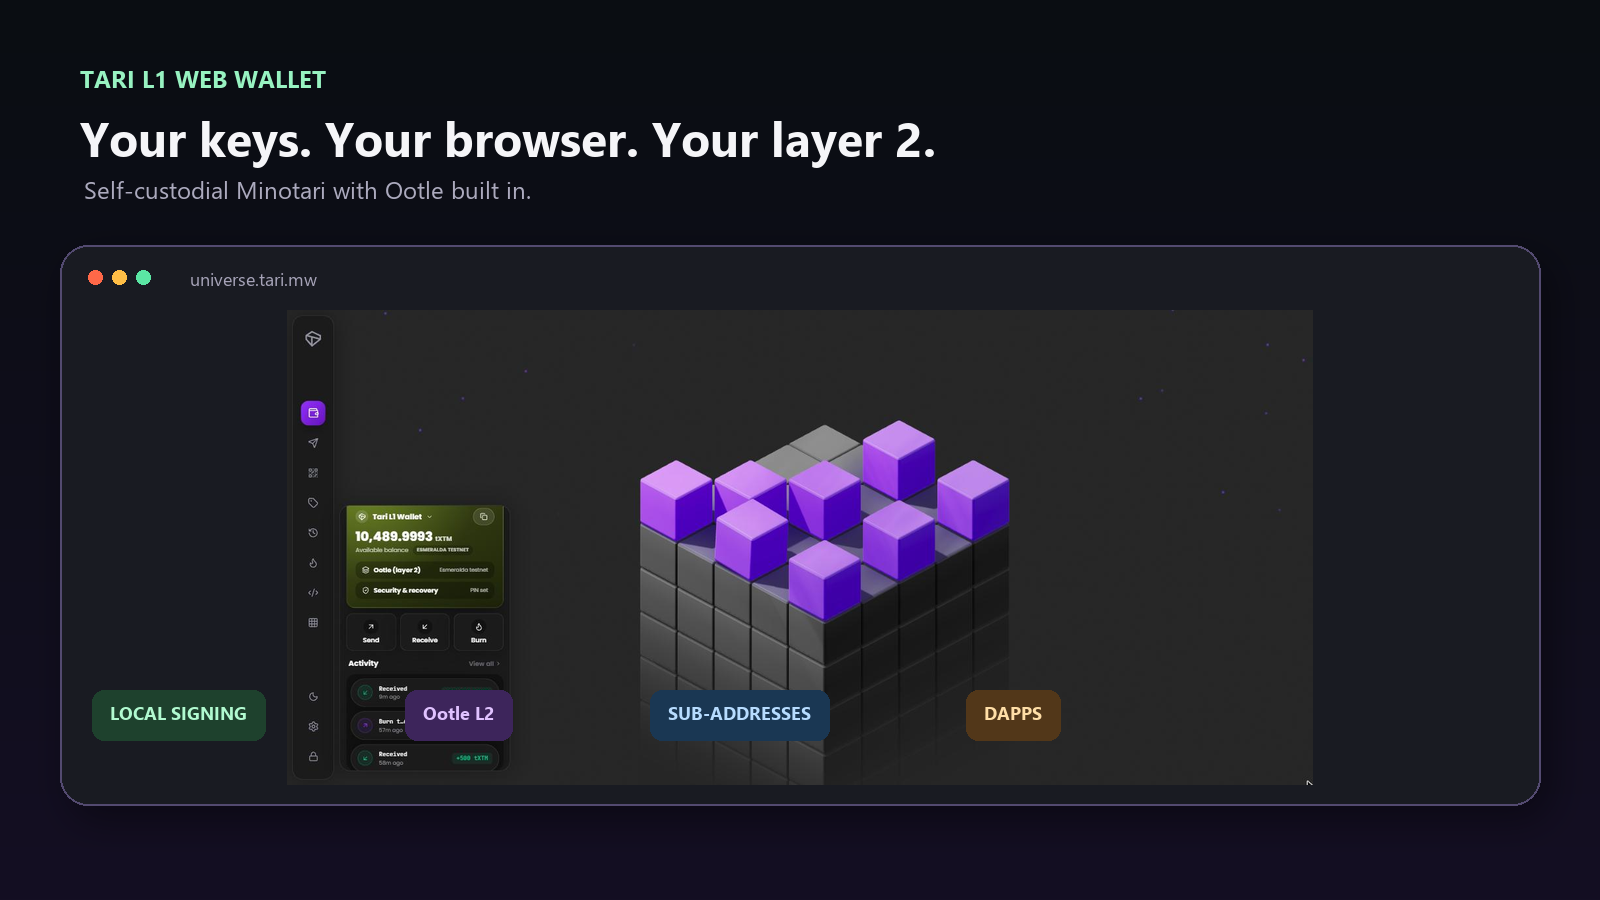
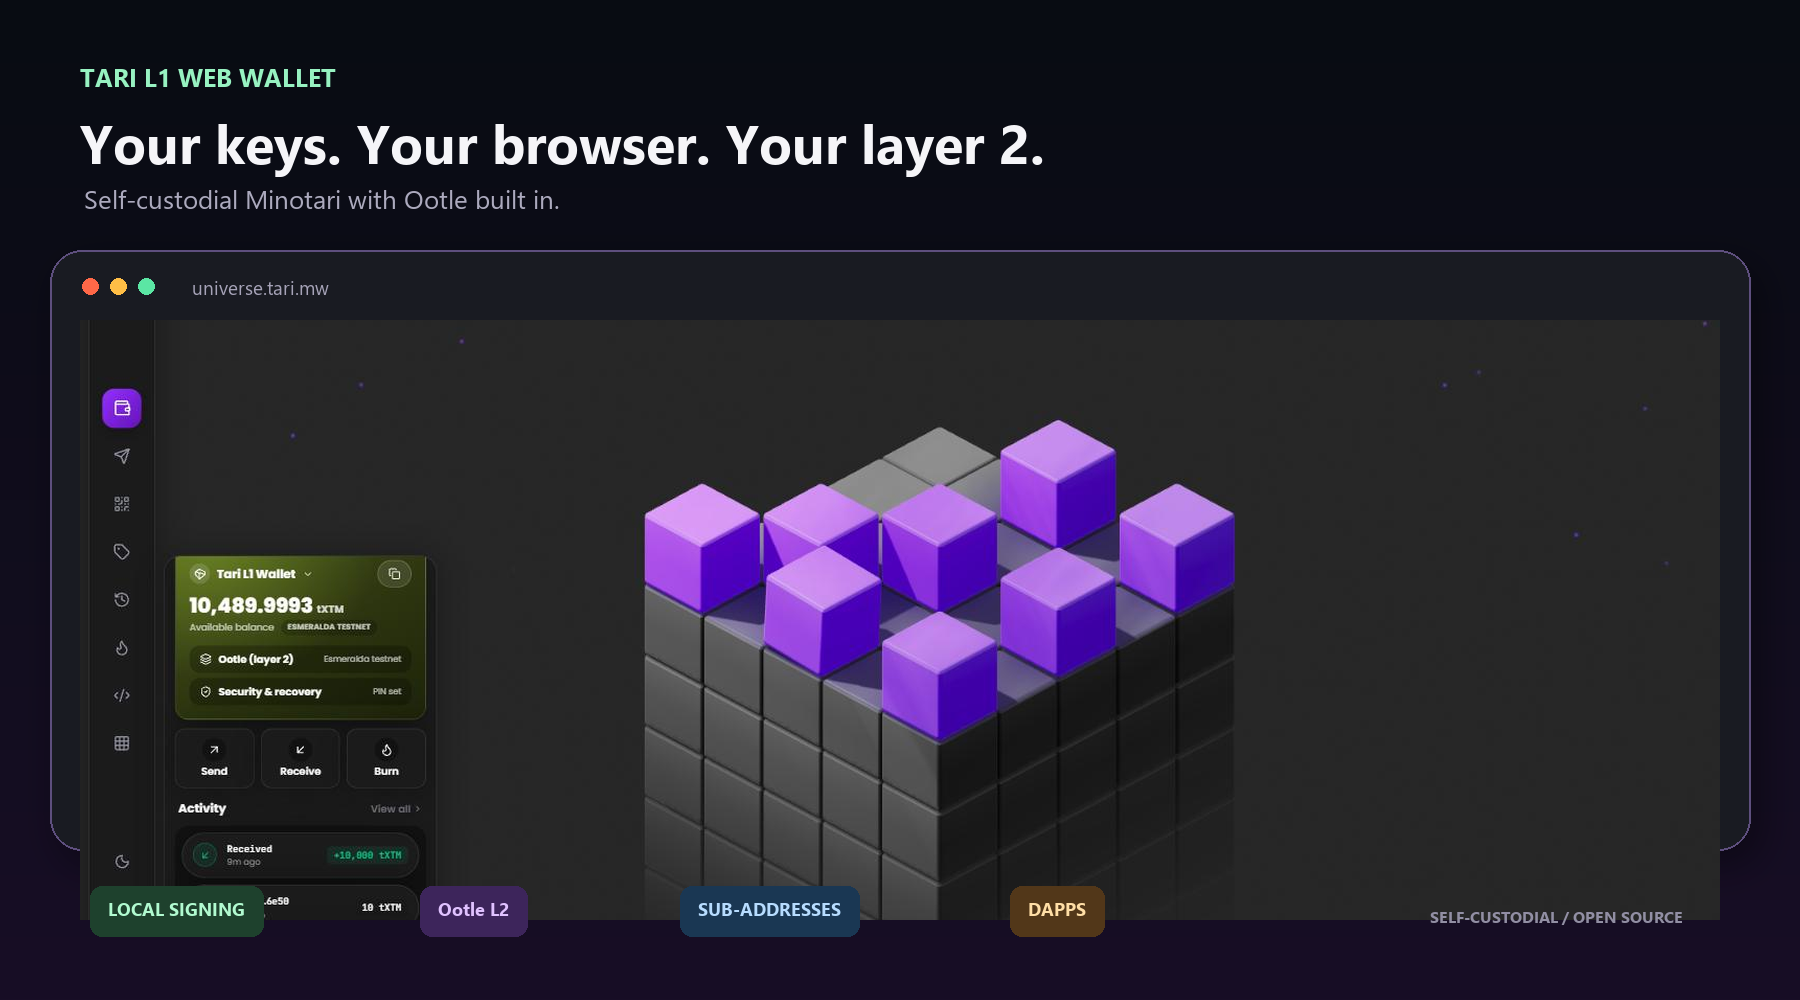
README: regenerate product visuals

diff --git a/scripts/make-readme-assets.py b/scripts/make-readme-assets.py
@@ -1,5 +1,5 @@
 from pathlib import Path
-from PIL import Image, ImageDraw, ImageFont, ImageFilter
+from PIL import Image, ImageDraw, ImageFont, ImageFilter, ImageOps
 
 ROOT = Path(__file__).resolve().parents[1]
 OUT = ROOT / "docs" / "screenshots"
@@ -55,25 +55,27 @@ def label(draw, xy, text, color, fill):
 
 
 def make_hero():
-    w, h = 1600, 900
-    image = gradient((w, h), (10, 13, 18), (20, 15, 35)).convert("RGBA")
+    w, h = 1800, 1000
+    image = gradient((w, h), (8, 12, 18), (24, 14, 38)).convert("RGBA")
     draw = ImageDraw.Draw(image)
-    draw.text((80, 62), "TARI L1 WEB WALLET", font=font(24, True), fill=(151, 242, 193))
-    draw.text((80, 105), "Your keys. Your browser. Your layer 2.", font=font(48, True), fill=(245, 245, 248))
-    draw.text((84, 173), "Self-custodial Minotari with Ootle built in.", font=font(24), fill=(172, 170, 190))
-    shadow(image, (60, 245, 1540, 805), 28)
-    rounded(image, (60, 245, 1540, 805), 28, fill=(25, 27, 34, 255), outline=(83, 74, 112, 255), width=2)
+    draw.text((80, 60), "TARI L1 WEB WALLET", font=font(25, True), fill=(151, 242, 193))
+    draw.text((80, 105), "Your keys. Your browser. Your layer 2.", font=font(54, True), fill=(245, 245, 248))
+    draw.text((84, 180), "Self-custodial Minotari with Ootle built in.", font=font(26), fill=(172, 170, 190))
+    shadow(image, (50, 250, 1750, 850), 32)
+    rounded(image, (50, 250, 1750, 850), 32, fill=(25, 27, 34, 255), outline=(94, 79, 126, 255), width=2)
     draw = ImageDraw.Draw(image)
-    draw.ellipse((88, 270, 102, 284), fill=(255, 104, 72))
-    draw.ellipse((112, 270, 126, 284), fill=(255, 190, 70))
-    draw.ellipse((136, 270, 150, 284), fill=(91, 230, 164))
-    draw.text((190, 266), "universe.tari.mw", font=font(18), fill=(166, 163, 184))
-    shot = fit(Image.open(OUT / "dashboard.jpg"), (1370, 475))
-    image.alpha_composite(shot, ((1600 - shot.width) // 2, 310))
-    label(draw, (92, 690), "LOCAL SIGNING", (177, 250, 208), (30, 65, 45, 255))
-    label(draw, (405, 690), "Ootle L2", (224, 194, 255), (61, 37, 91, 255))
-    label(draw, (650, 690), "SUB-ADDRESSES", (183, 220, 255), (26, 55, 83, 255))
-    label(draw, (966, 690), "DAPPS", (255, 222, 166), (82, 55, 25, 255))
+    draw.ellipse((82, 278, 98, 294), fill=(255, 104, 72))
+    draw.ellipse((110, 278, 126, 294), fill=(255, 190, 70))
+    draw.ellipse((138, 278, 154, 294), fill=(91, 230, 164))
+    draw.text((192, 274), "universe.tari.mw", font=font(19), fill=(166, 163, 184))
+    source = Image.open(OUT / "dashboard.jpg").convert("RGB")
+    shot = ImageOps.fit(source, (1640, 600), method=Image.Resampling.LANCZOS, centering=(0.5, 0.48))
+    image.alpha_composite(shot.convert("RGBA"), (80, 320))
+    label(draw, (90, 886), "LOCAL SIGNING", (177, 250, 208), (30, 65, 45, 255))
+    label(draw, (420, 886), "Ootle L2", (224, 194, 255), (61, 37, 91, 255))
+    label(draw, (680, 886), "SUB-ADDRESSES", (183, 220, 255), (26, 55, 83, 255))
+    label(draw, (1010, 886), "DAPPS", (255, 222, 166), (82, 55, 25, 255))
+    draw.text((1430, 905), "SELF-CUSTODIAL / OPEN SOURCE", font=font(16, True), fill=(146, 143, 164))
     image.convert("RGB").save(OUT / "hero-wallet.png", quality=95)
 
 
@@ -88,13 +90,13 @@ def make_ootle():
     for box in cards:
         shadow(image, box, 28)
         rounded(image, box, 28, fill=(25, 27, 34, 255), outline=(92, 72, 76, 255), width=2)
-    burn = fit(Image.open(OUT / "burn.png"), (540, 400))
-    ootle = fit(Image.open(OUT / "ootle-claimed.png"), (540, 400))
-    image.alpha_composite(burn, (105, 320))
-    image.alpha_composite(ootle, (955, 305))
+    burn = fit(Image.open(OUT / "burn.png"), (560, 370))
+    ootle = fit(Image.open(OUT / "ootle-claimed.png"), (560, 370))
+    image.alpha_composite(burn, (95, 325))
+    image.alpha_composite(ootle, (945, 300))
     draw = ImageDraw.Draw(image)
-    draw.text((112, 670), "01  BURN ON L1", font=font(22, True), fill=(255, 190, 143))
-    draw.text((962, 670), "02  CLAIM ON Ootle", font=font(22, True), fill=(183, 247, 203))
+    draw.text((112, 690), "01  BURN ON L1", font=font(22, True), fill=(255, 190, 143))
+    draw.text((962, 690), "02  CLAIM ON Ootle", font=font(22, True), fill=(183, 247, 203))
     draw.line((700, 510, 900, 510), fill=(191, 126, 255), width=5)
     draw.polygon([(900, 510), (870, 492), (870, 528)], fill=(191, 126, 255))
     draw.text((710, 455), "signed", font=font(18, True), fill=(205, 194, 224))
@@ -109,17 +111,22 @@ def make_security():
     draw.text((80, 60), "SELF-CUSTODIAL BY DESIGN", font=font(24, True), fill=(139, 235, 188))
     draw.text((80, 103), "Security that stays in your hands.", font=font(48, True), fill=(247, 248, 246))
     draw.text((84, 171), "Recovery, lock and signing controls built into the wallet.", font=font(24), fill=(171, 187, 181))
-    shadow(image, (90, 270, 1510, 790), 30)
-    rounded(image, (90, 270, 1510, 790), 30, fill=(239, 243, 239, 255), outline=(111, 156, 137, 255), width=2)
-    shot = fit(Image.open(ROOT / "shots" / "05-scan.png"), (1320, 430))
-    image.alpha_composite(shot, (140, 305))
+    shadow(image, (50, 250, 1200, 850), 30)
+    rounded(image, (50, 250, 1200, 850), 30, fill=(239, 243, 239, 255), outline=(111, 156, 137, 255), width=2)
+    source = Image.open(ROOT / "shots" / "05-scan.png").convert("RGB")
+    shot = ImageOps.contain(source, (1080, 560), method=Image.Resampling.LANCZOS)
+    image.alpha_composite(shot.convert("RGBA"), (85, 270))
+    shadow(image, (1240, 250, 1750, 850), 30)
+    rounded(image, (1240, 250, 1750, 850), 30, fill=(25, 45, 38, 255), outline=(76, 133, 105, 255), width=2)
     draw = ImageDraw.Draw(image)
-    draw.rounded_rectangle((180, 650, 560, 730), 18, fill=(35, 66, 49, 255))
-    draw.rounded_rectangle((620, 650, 990, 730), 18, fill=(52, 48, 83, 255))
-    draw.rounded_rectangle((1050, 650, 1410, 730), 18, fill=(80, 59, 30, 255))
-    draw.text((210, 677), "PIN LOCK + AUTO-LOCK", font=font(19, True), fill=(177, 249, 204))
-    draw.text((650, 677), "LOCAL WEBASSEMBLY SIGNING", font=font(19, True), fill=(225, 211, 255))
-    draw.text((1080, 677), "CIPHERSEED RECOVERY", font=font(19, True), fill=(255, 220, 161))
+    draw.text((1290, 310), "YOUR WALLET,", font=font(20, True), fill=(142, 235, 188))
+    draw.text((1290, 340), "YOUR RULES.", font=font(30, True), fill=(239, 250, 241))
+    draw.rounded_rectangle((1290, 420, 1700, 510), 18, fill=(35, 75, 55, 255))
+    draw.text((1315, 447), "PIN LOCK + AUTO-LOCK", font=font(18, True), fill=(183, 250, 207))
+    draw.rounded_rectangle((1290, 535, 1700, 625), 18, fill=(53, 49, 88, 255))
+    draw.text((1315, 562), "LOCAL WASM SIGNING", font=font(18, True), fill=(229, 215, 255))
+    draw.rounded_rectangle((1290, 650, 1700, 740), 18, fill=(86, 61, 31, 255))
+    draw.text((1315, 677), "CIPHERSEED RECOVERY", font=font(18, True), fill=(255, 220, 161))
     image.convert("RGB").save(OUT / "security-recovery.png", quality=95)
 
 
